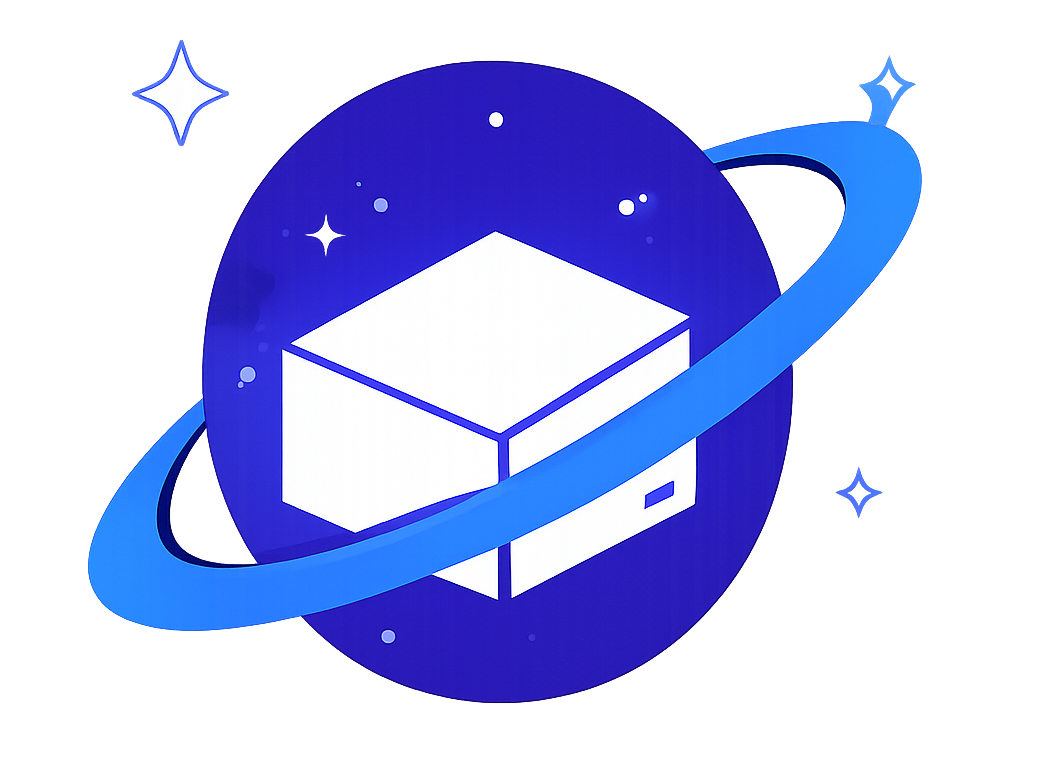
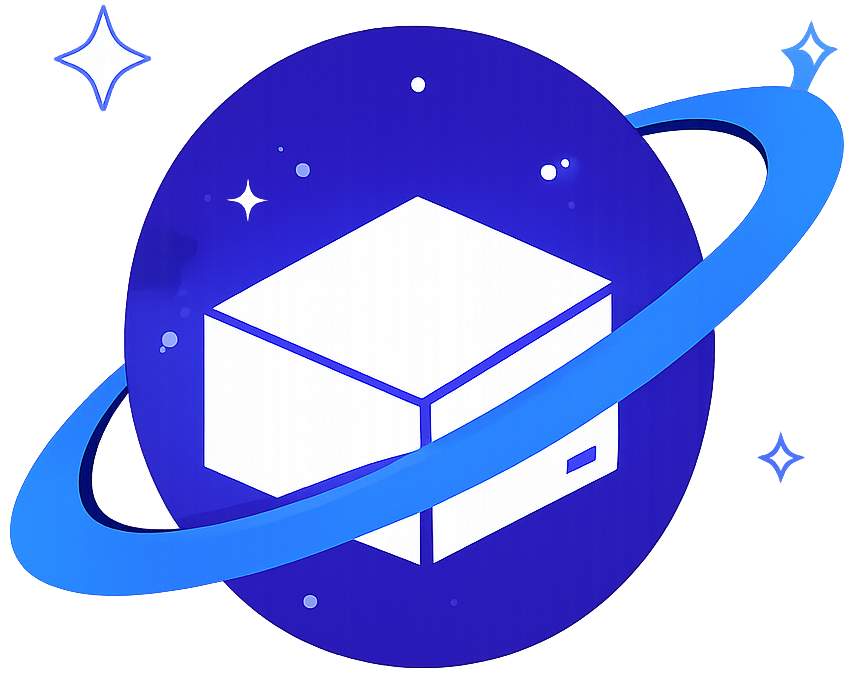
login and register styles done

diff --git a/login_form/src/organisms/register/Register.jsx b/login_form/src/organisms/register/Register.jsx
@@ -1,8 +1,37 @@
-
+import Input from "../../molecules/input/Input"
+import RightArrow from '../../assets/RightArrow'
+import User from '../../assets/User'
+import Calendar from '../../assets/Calendar'
+import Envelope from '../../assets/Envelope'
+import MapPin from '../../assets/MapPin'
+import Lock from '../../assets/Lock'
+import RocketIcon from '../../assets/RocketIcon'
+import LogHeader from "../../molecules/log-header/LogHeader"
+import Button from "../../molecules/button/Button"
+import styles from './Register.module.scss'
 
 const Register = () => {
   return (
-    <div>Register</div>
+    <section className={styles.registerCard}>
+      <LogHeader title="Crear cuenta" text="Sumate a la comunidad de Libro Planeta" />
+
+      <form className={styles.registerForm}>
+        <Input text="Nombre y apellido" id="username" placeholder="Ingresa tu nombre y apellido" type="email" icon={User} />
+        <div className={styles.flexInputs}>
+          <Input text="Fecha de Nacimiento" id="birth" placeholder="" type="date" icon={Calendar} />
+          <Input text="Email" id="email" placeholder="Ingresa tu email" type="email" icon={Envelope} />
+        </div>
+        <Input text="Dirección" id="address" placeholder="Ingresa tu dirección" type="text" icon={MapPin} />
+        <Input text="Contraseña" id="password" placeholder="Crea una contraseña" type="password" icon={Lock} />
+        <Input text="Confirmar contraseña" id="password" placeholder="Repetí tu contraseña" type="password" icon={Lock} />
+
+        <Button text="Crear Cuenta" icon={RocketIcon} />
+      </form>
+      <div className={styles.loginLink}>
+        <p>¿Ya tenés cuenta?</p>
+        <a href="/login" className={styles.loginText}>Iniciá sesión <RightArrow /> </a>
+      </div>
+    </section>
   )
 }
 

diff --git a/login_form/src/organisms/register/Register.module.scss b/login_form/src/organisms/register/Register.module.scss
@@ -1,0 +1,35 @@
+.registerCard {
+    width: 30rem;
+    height: 45rem;
+    padding: .8rem 2rem;
+    border: 1px solid rgba(120,170,255,0.25);
+    border-radius: 1.5rem;
+    background-color: rgba(5, 12, 35, 0.55);
+    backdrop-filter: blur(18px);
+    box-shadow: 0 0 30px rgba(0,110,255,0.18);
+    .registerForm {
+        .flexInputs{
+            display: flex;
+            justify-content: space-between;
+        }
+    }
+    .loginLink {
+        display: flex;
+        flex-direction: column;
+        align-items: center;
+        padding-top: 1.2rem;
+        color: white;
+        font-weight: 300;
+        .loginText {
+            display: flex;
+            align-items: center;
+            gap: .3rem;
+            color: #2563EB;
+            text-decoration: none;
+            transition: .2s;
+            &:hover {
+                transform: scale(1.1);
+            }
+        }
+    }
+}

diff --git a/login_form/src/assets/User.jsx b/login_form/src/assets/User.jsx
@@ -1,8 +1,8 @@
 
-const User = () => {
+const User = ({width="1rem", height="1rem", color="#fff"}) => {
     return (
-        <svg xmlns="http://www.w3.org/2000/svg" fill="none" viewBox="0 0 24 24" stroke-width="1.5" stroke="currentColor" class="size-6">
-            <path stroke-linecap="round" stroke-linejoin="round" d="M15.75 6a3.75 3.75 0 1 1-7.5 0 3.75 3.75 0 0 1 7.5 0ZM4.501 20.118a7.5 7.5 0 0 1 14.998 0A17.933 17.933 0 0 1 12 21.75c-2.676 0-5.216-.584-7.499-1.632Z" />
+        <svg xmlns="http://www.w3.org/2000/svg" fill="none" viewBox="0 0 24 24" strokeWidth="1.5" stroke={color} width={width} height={height} className="size-6">
+            <path strokeLinecap="round" strokeLinejoin="round" d="M15.75 6a3.75 3.75 0 1 1-7.5 0 3.75 3.75 0 0 1 7.5 0ZM4.501 20.118a7.5 7.5 0 0 1 14.998 0A17.933 17.933 0 0 1 12 21.75c-2.676 0-5.216-.584-7.499-1.632Z" />
         </svg>
 
     )

diff --git a/login_form/src/organisms/login/Login.jsx b/login_form/src/organisms/login/Login.jsx
@@ -12,7 +12,7 @@ import RightArrow from '../../assets/RightArrow'
 const Login = () => {
   return (
     <section className={styles.loginCard}>
-      <LogHeader />
+      <LogHeader title="Iniciar sesión" text="Bienvenido de nuevo a Libro Planeta"/>
 
       <form className={styles.loginForm}>
         <Input text="Email" id="email" placeholder="Ingresa tu email" type="email" icon={Envelope} />
@@ -24,7 +24,7 @@ const Login = () => {
       </form>
       <div className={styles.registerLink}>
         <p>¿Todavía no tenés cuenta?</p>
-        <a href="" className={styles.registerText}>Regístrate <RightArrow /> </a>
+        <a href="/register" className={styles.registerText}>Regístrate <RightArrow /> </a>
       </div>
     </section>
   )

diff --git a/login_form/src/molecules/log-header/LogHeader.jsx b/login_form/src/molecules/log-header/LogHeader.jsx
@@ -3,7 +3,7 @@ import Title2 from '../../atoms/Title2'
 import Text from '../../atoms/text/Text'
 import styles from './LogHeader.module.scss'
 
-const LogHeader = () => {
+const LogHeader = ({title,text}) => {
   return (
     <div className={styles.logHeader}>
       <div className={styles.titleSection}>
@@ -18,9 +18,9 @@ const LogHeader = () => {
           backgroundPosition: 'center'
         }}
         ></i>
-        <Title2 text="Iniciar sesión"/>
+        <Title2 text={title}/>
       </div>
-      <Text text="Bienvenido de nuevo a Libro Planeta"/>
+      <Text text={text}/>
     </div>
   )
 }

diff --git a/login_form/src/molecules/header/Header.jsx b/login_form/src/molecules/header/Header.jsx
@@ -7,7 +7,7 @@ import icon from '../../assets/icon.png'
 const Header = () => {
   return (
     <header className={styles.header}>
-        <Icon src={icon} alt="libro planeta icon" width="9rem" height="6rem"/>
+        <Icon src={icon} alt="libro planeta icon" width="6.3rem" height="4.3rem"/>
         <div className={styles.titleHeader}>
             <Title title="Libro" span="Planeta" />
             <Subtitle text="descubrí tu próximo libro"/>

diff --git a/login_form/src/organisms/login/Login.module.scss b/login_form/src/organisms/login/Login.module.scss
@@ -1,6 +1,6 @@
 .loginCard {
     width: 30rem;
-    height: 35rem;
+    height: 31rem;
     padding: 2rem;
     border: 1px solid rgba(120,170,255,0.25);
     border-radius: 1.5rem;
@@ -11,7 +11,7 @@
         .forgotPassword {
             display: flex;
             justify-content: flex-end;
-            padding-bottom: .9rem;
+           
             .forgotText {
                 text-decoration: none;
                 color: #2563EB;

diff --git a/login_form/src/molecules/header/Header.module.scss b/login_form/src/molecules/header/Header.module.scss
@@ -1,6 +1,8 @@
 .header {
     display: flex;
-    justify-content: center;
+    justify-content: first baseline;
+    gap: .8rem;
+    padding: 1.5rem;
     .titleHeader {
         display: flex;
         flex-direction: column;

diff --git a/login_form/src/molecules/button/Button.module.scss b/login_form/src/molecules/button/Button.module.scss
@@ -11,6 +11,7 @@
     color: white;
     font-weight: 700;
     font-size: 1.1rem;
+    margin-top: 1rem;
     cursor: pointer;
     box-shadow:0 10px 30px rgba(60,100,255,.35);
     transition: .25s;

diff --git a/login_form/src/molecules/input/Input.module.scss b/login_form/src/molecules/input/Input.module.scss
@@ -2,7 +2,7 @@
     display: flex;
     flex-direction: column;
     gap: .8rem;
-    padding: .5rem 0;
+    padding: .3rem 0;
     .inputWrapper {
         height: 3rem;
         display: flex;

diff --git a/login_form/src/molecules/log-header/LogHeader.module.scss b/login_form/src/molecules/log-header/LogHeader.module.scss
@@ -1,7 +1,7 @@
 .logHeader {
     display: flex;
     flex-direction: column;
-    padding: 1rem 0;
+    padding: 0 0 .5rem 0;
     gap: .5rem;
     .titleSection {
         display: flex;

diff --git a/login_form/src/molecules/footer/Footer.module.scss b/login_form/src/molecules/footer/Footer.module.scss
@@ -2,4 +2,5 @@
     display: flex;
     flex-direction: column;
     align-items: center;
+    padding-top: 1rem;
 }
